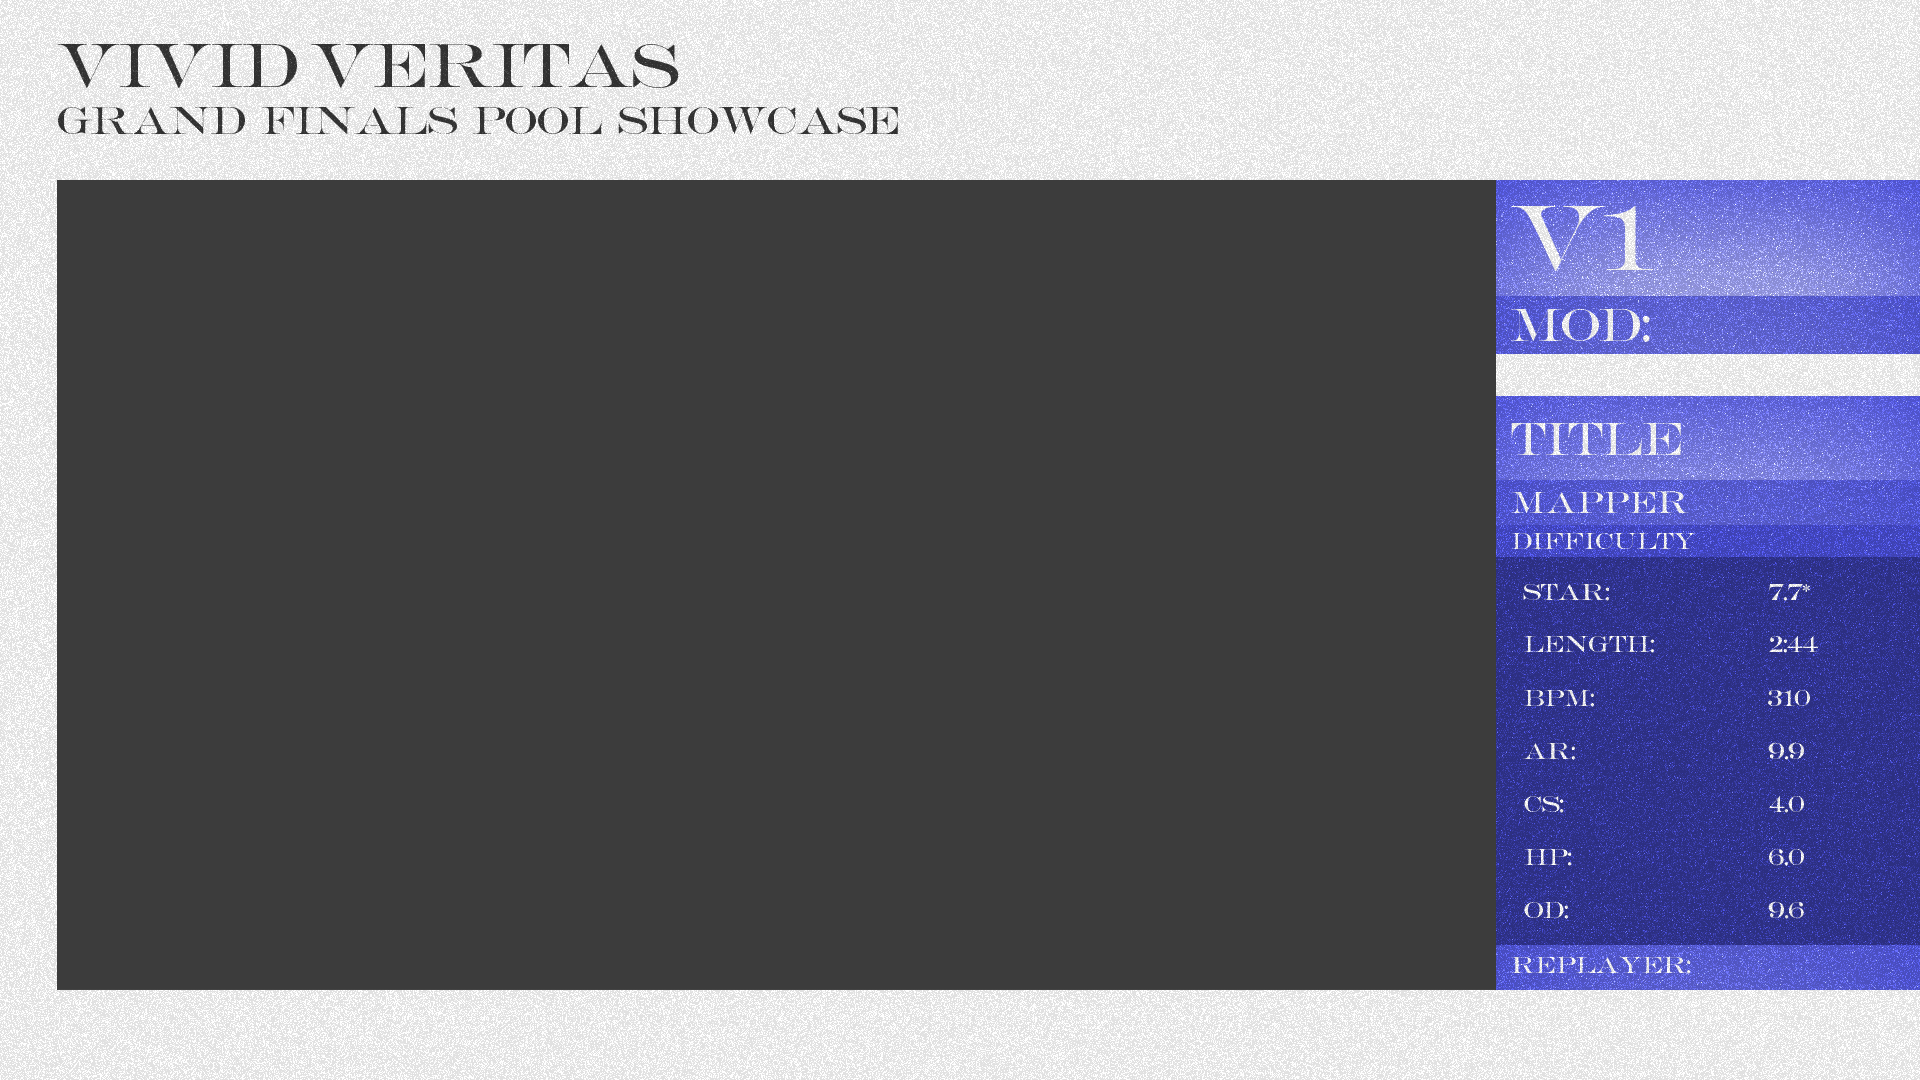
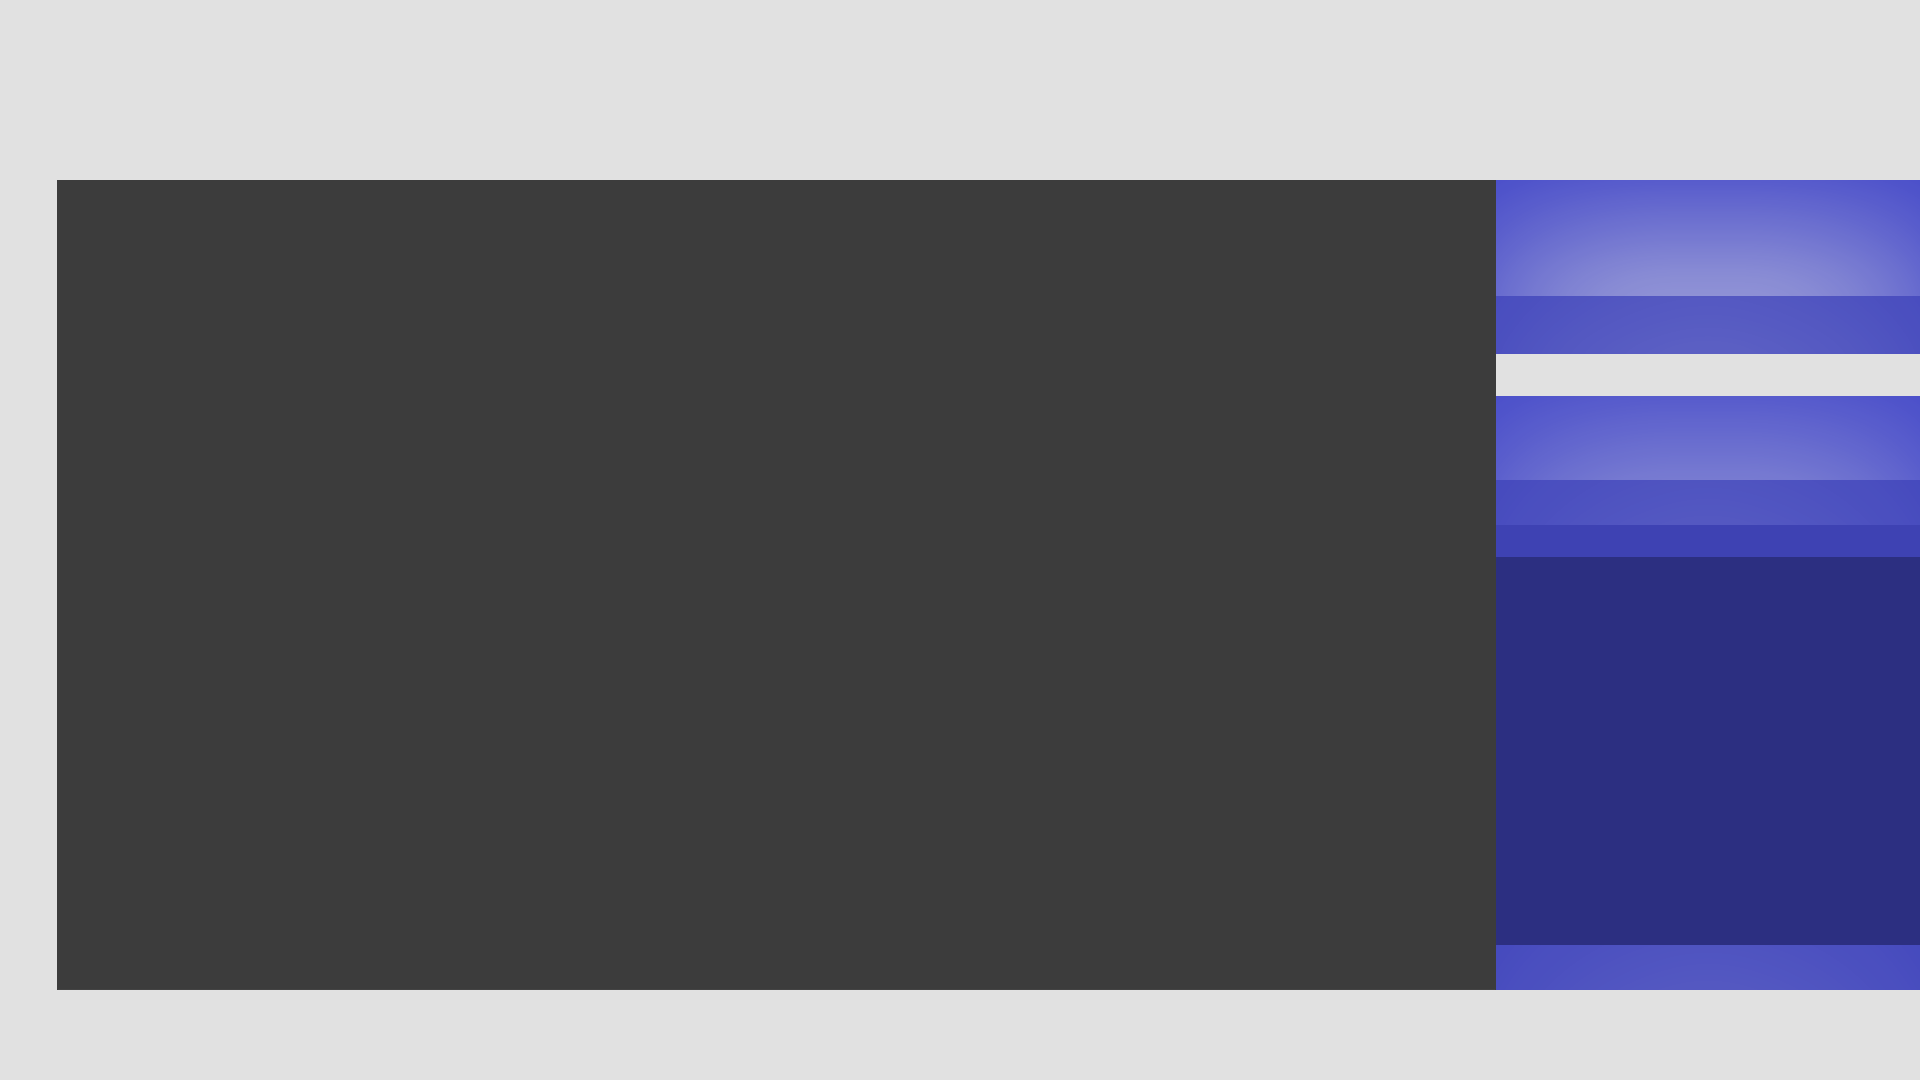
Complete right hand side

Changed region(s): [[0.0, 0.0, 1.0, 1.0]]

diff --git a/showcase/index.html b/showcase/index.html
@@ -12,6 +12,45 @@
     <div class="main">
         <div class="title">VIVID VERITAS</div>
         <div class="round-name">GRAND FINALS POOL SHOWCASE</div>
+
+        <div class="info-box">
+            <div class="info-section identifier-section">
+                <div class="section-text identifier-name">V1</div>
+            </div>
+            <div class="info-section mod-section">
+                <div class="section-text name-50px">MOD: <span class="mod-name"></span></div>
+            </div>
+            <div class="info-section title-section">
+                <div class="section-text name-50px">TITLE</div>
+            </div>
+            <div class="info-section mapper-section">
+                <div class="section-text mapper-name">MAPPER</div>
+            </div>
+            <div class="info-section difficulty-section">
+                <div class="section-text difficulty-name">DIFFICULTY</div>
+            </div>
+            <div class="info-section stats-box">
+                <div class="stats-grid">
+                    <div>STAR:</div>
+                    <div>7.7*</div>
+                    <div>LENGTH:</div>
+                    <div>2:44</div>
+                    <div>BPM:</div>
+                    <div>310</div>
+                    <div>AR:</div>
+                    <div>9.9</div>
+                    <div>CS:</div>
+                    <div>4.0</div>
+                    <div>HP:</div>
+                    <div>6.0</div>
+                    <div>OD:</div>
+                    <div>9.6</div>
+                </div>
+            </div>
+            <div class="info-section replayer-section">
+                <div class="section-text replayer-name">REPLAYER:</div>
+            </div>
+        </div>
     </div>
 </body>
 </html>

diff --git a/showcase/style.css b/showcase/style.css
@@ -1,11 +1,11 @@
 :root {
+    --stat-section-main-text-padding-left: 14px;
+    --light-gray: #E1E1E1;
     --dark-gray: #303030;
 }
 
 /* Whole Page */
-body {
-    font-family: "Orlando Caps CG";
-}
+body { font-family: "Orlando Caps CG"; }
 .main { background-image: url("static/background.png"); }
 
 /* Title */
@@ -18,6 +18,7 @@ body {
     letter-spacing: -0.5px;
 }
 
+/* Round Name*/
 .round-name {
   font-size: 41.667px;
   color: var(--dark-gray);
@@ -25,4 +26,59 @@ body {
   left: 57px;
   top: 98px;
   letter-spacing:0.5px;
+}
+
+/* Stats Section */
+.info-box {
+    position: absolute;
+    right: 0;
+    top: 180px;
+    width: 424px;
+    color: var(--light-gray);
+}
+/* Stats Section */
+.info-section {
+    width: inherit;
+    display: flex;
+    align-items: center;
+}
+/* Section Text */
+.section-text { padding-left: var(--stat-section-main-text-padding-left); }
+/* Name 50px */
+.name-50px { font-size: 50px; }
+
+/* Identifier Section */
+.identifier-section { height: 116px; } 
+.identifier-name {
+    font-size: 100px;
+    padding-top: 2px;
+}
+
+/* Mod Section */
+.mod-section { height: 58px; }
+
+/* Title Section */
+.title-section {
+    margin-top: 42px;
+    height: 86px;
+}
+
+/* Mapper Section / Replayer Name */
+.mapper-section, .replayer-section { height: 44px; }
+.mapper-name { font-size: 33.333px; }
+.replayer-name { font-size: 25px; }
+
+/* Difficulty Section */
+.difficulty-section { height: 32px; }
+.difficulty-name { font-size: 25px; }
+
+/* Stats Box */
+.stats-box { height: 388px; }
+.stats-grid {
+    display: grid;
+    grid-template-columns: 244px 70px;
+    grid-template-rows: repeat(7, 55px);
+    font-size: 25px;
+    align-items: center;
+    margin-left: 27px;
 }
